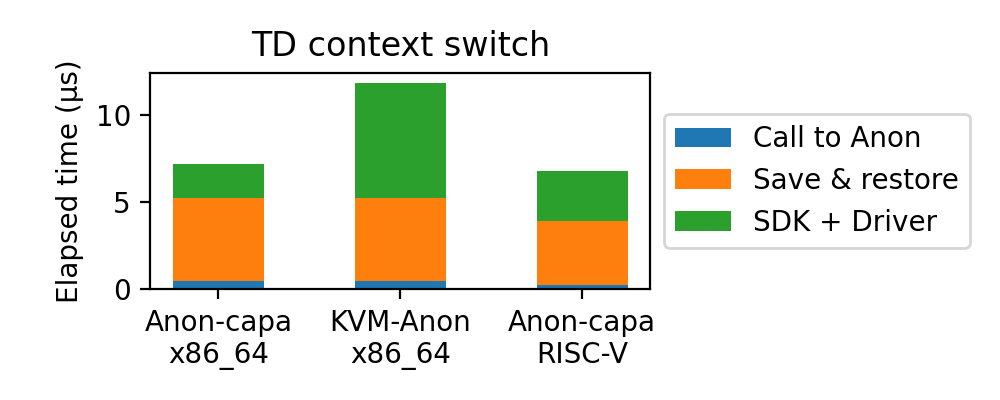
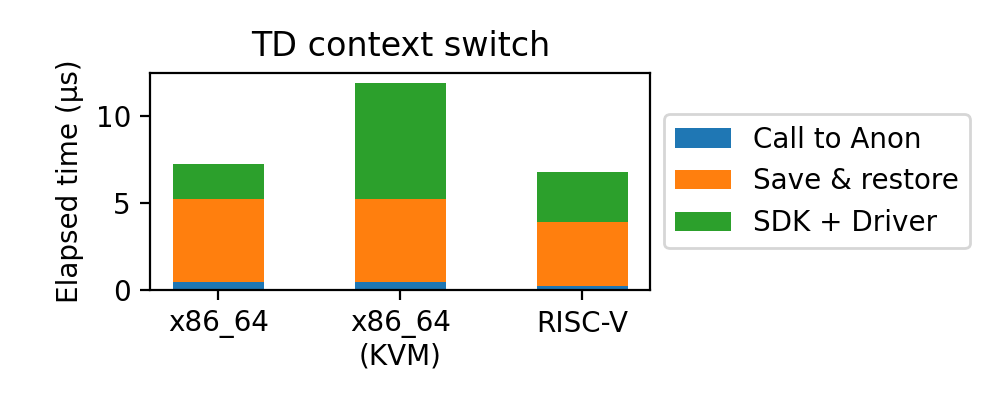
Update figures

diff --git a/scripts/redis_bench.py b/scripts/redis_bench.py
@@ -13,7 +13,7 @@ experiments = [
     "tcp-vanilla-vm",
     "tcp-tyche-vm",
     "tcp-encr",
-    # "tcp-ssl",
+    "tcp-ssl",
 ]
 
 labels = [
@@ -23,7 +23,7 @@ labels = [
     "Linux VM",
     "Anon VM",
     "Nested enclaves",
-    # "SSL",
+    "SSL",
 ]
 
 color_vanilla = "lightgreen"
@@ -68,18 +68,19 @@ ops = [data[p]['ops'] for p in exps]
 lat = [data[p]['latency'] for p in exps]
 
 # Create two subplots for set and get operations
-fig, (ax1, ax2) = plt.subplots(2, 1, sharex=True)  # Share x-axis for alignment
+# fig, (ax1, ax2) = plt.subplots(2, 1, sharex=True)  # Share x-axis for alignment
+fig, ax1 = plt.subplots(1, 1, sharex=True, figsize=(6, 2.5))  # Share x-axis for alignment
 
 # Plot set operations on first subplot
 ax1.bar(labels, ops, color=colors)
 ax1.set_ylabel('Requests/s')
 ax1.set_title('Requests per seconds for different Redis configurations')
-# ax1.legend()
+ax1.legend()
 
 # Plot get operations on second subplot
-ax2.bar(labels, lat, color=colors)
+# ax2.bar(labels, lat, color=colors)
+# ax2.set_ylabel('p99 Latency (μs)')
 # ax2.set_xlabel('Expriments')
-ax2.set_ylabel('p99 Latency (μs)')
 # ax2.set_title('Get Operations per Second for Different Protocols')
 # ax2.legend()
 

diff --git a/scripts/transitions.py b/scripts/transitions.py
@@ -44,9 +44,9 @@ tyche_rv = np.average(tyche_rv)
 kvm_x86 = np.average(kvm)
 
 sdk = (
-    "Anon-capa\nx86_64",
-    "KVM-Anon\nx86_64",
-    "Anon-capa\nRISC-V",
+    "x86_64",
+    "x86_64\n(KVM)",
+    "RISC-V",
 )
 
 switch_x86 = switch_x86 - null_x86
